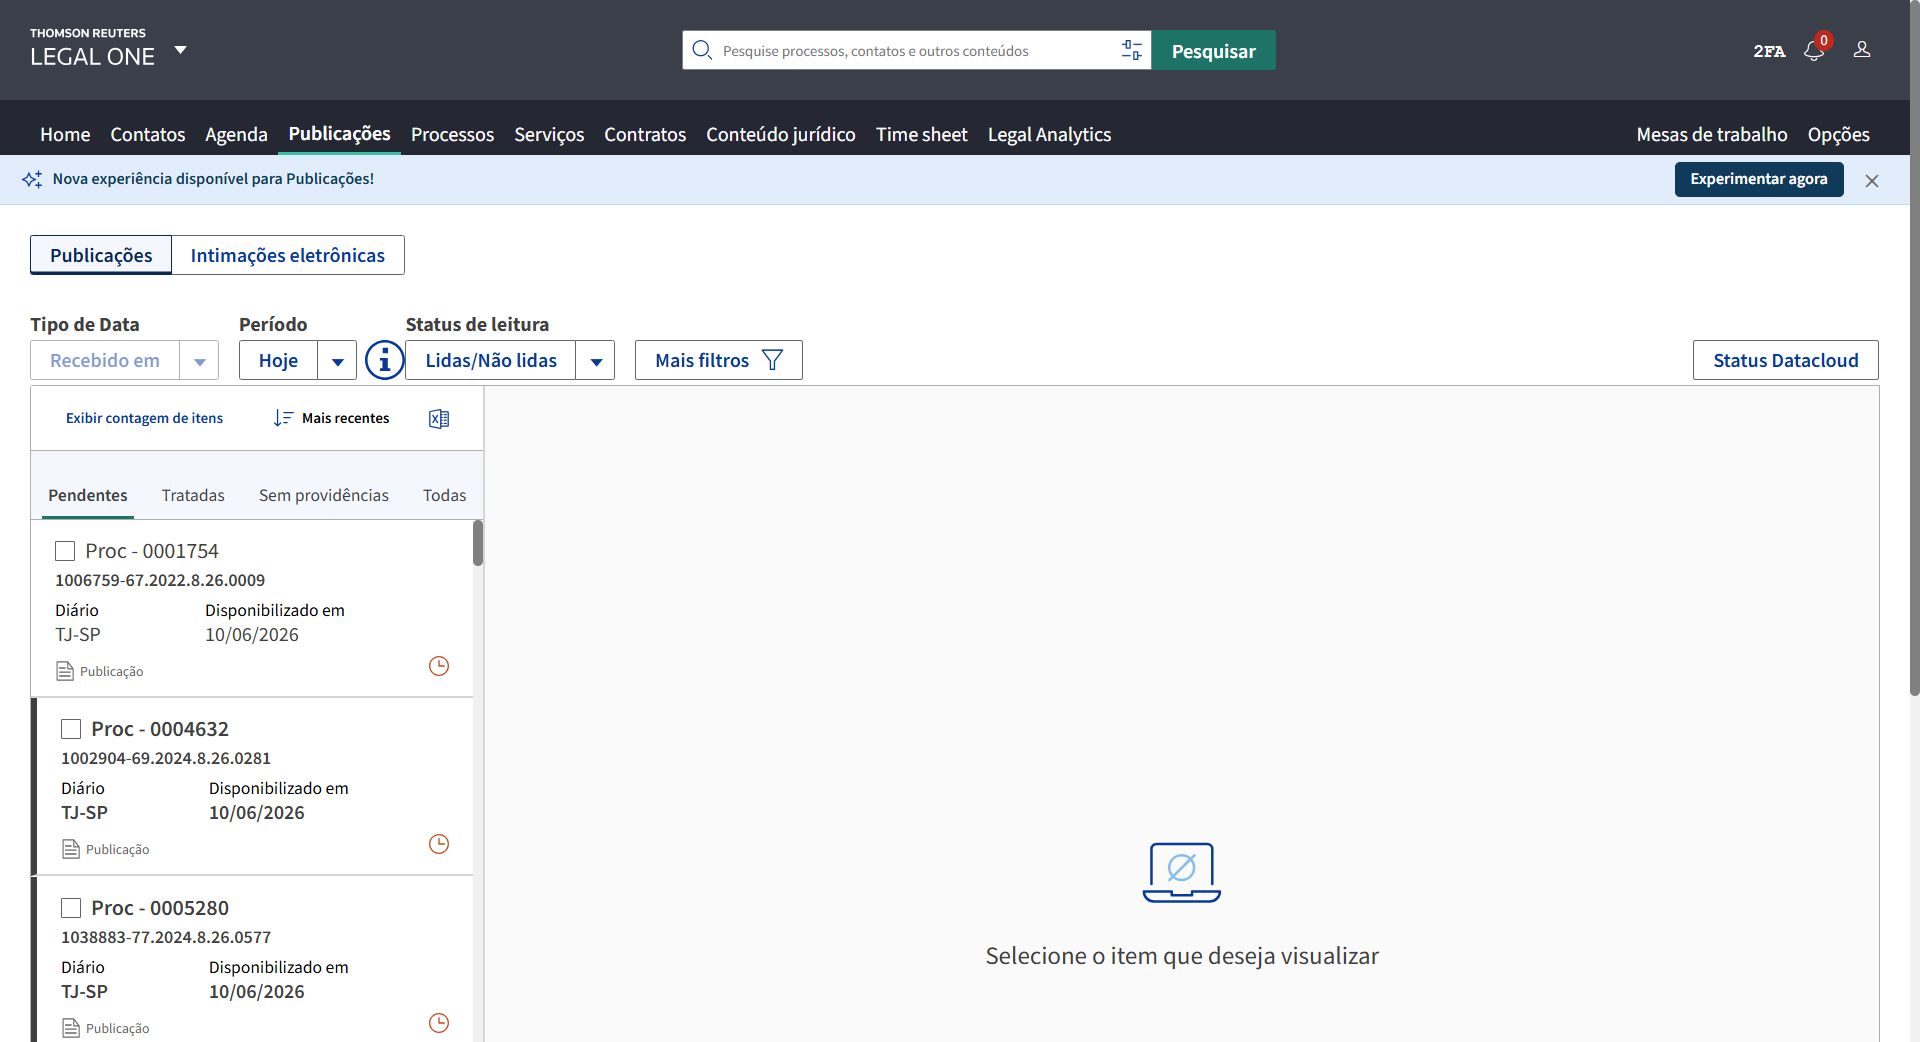
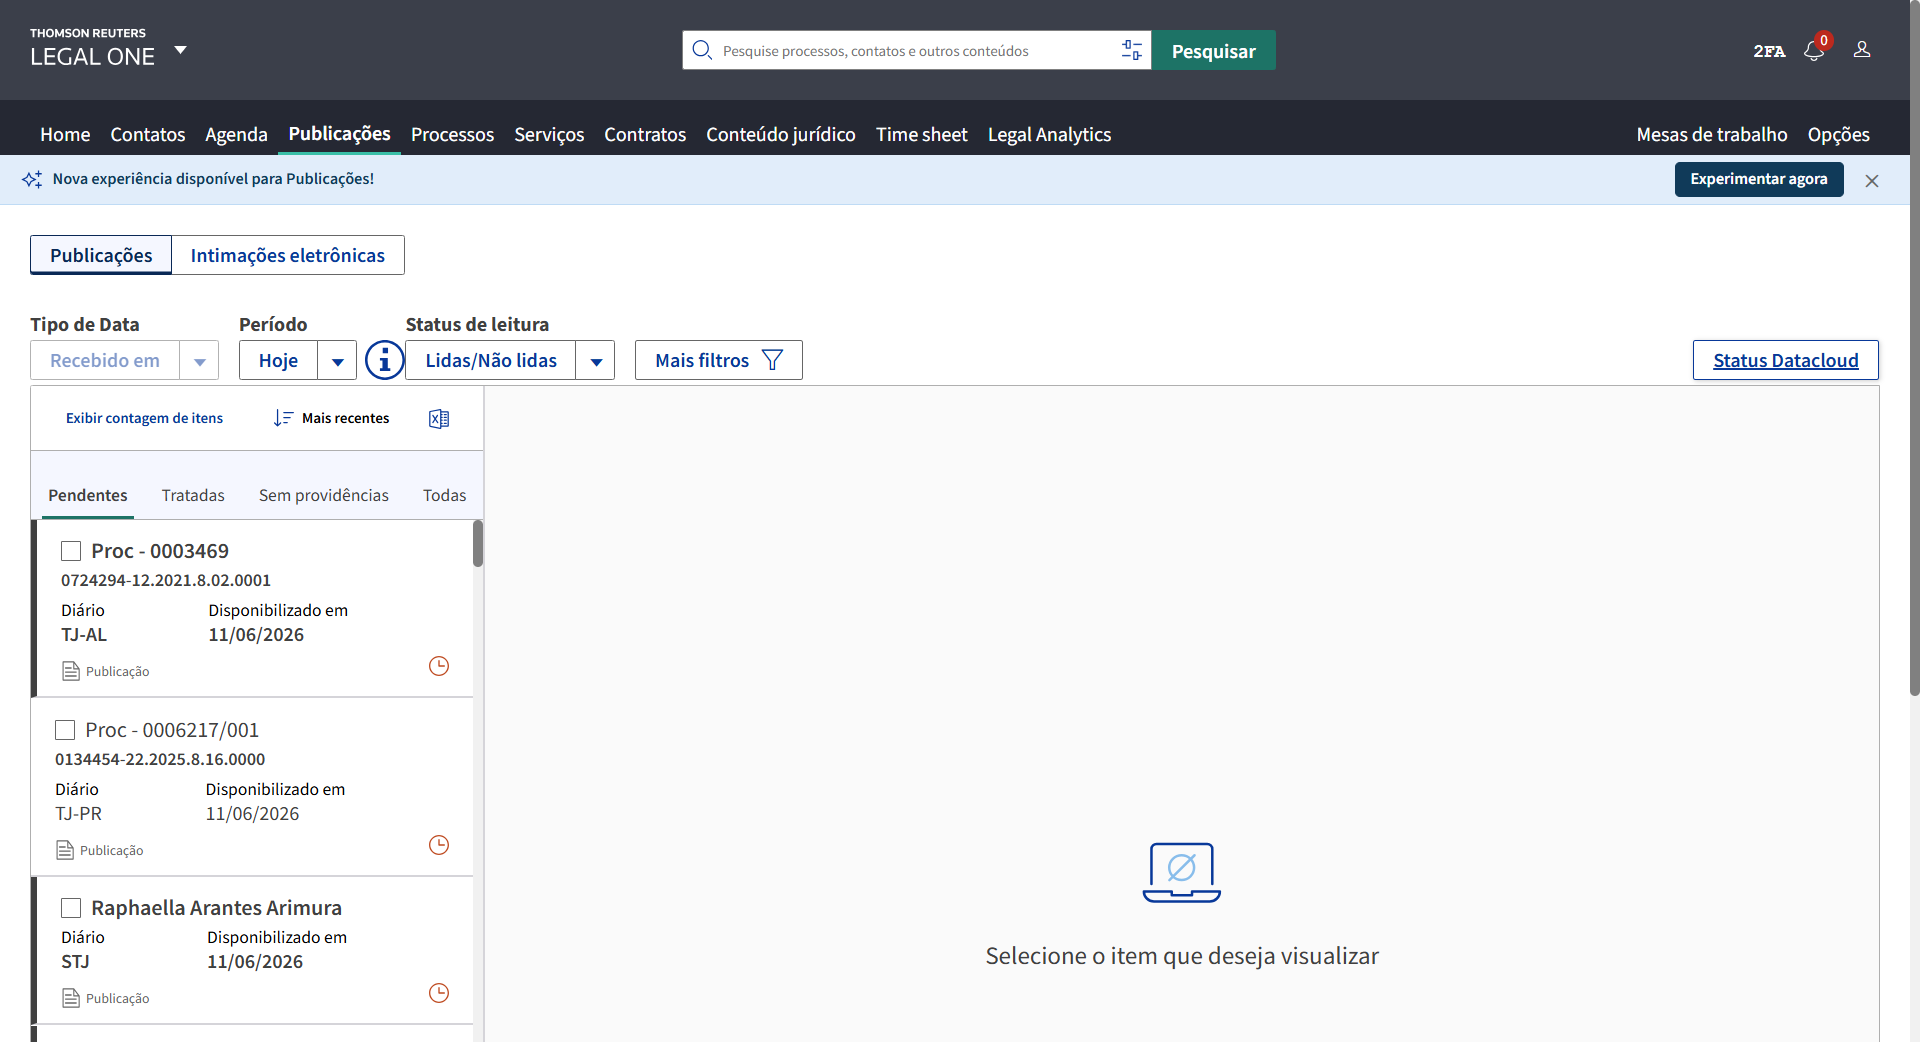
Fix: Update scheduling and scraping timestamps in relevant JSON data and minor code formatting adjustments

diff --git a/adapters/web/acoes.py b/adapters/web/acoes.py
@@ -1,10 +1,9 @@
-import time
 import logging
-import uuid
+import time
 
 from selenium.webdriver.common.by import By
-from selenium.webdriver.support.ui import WebDriverWait
 from selenium.webdriver.support import expected_conditions as EC
+from selenium.webdriver.support.ui import WebDriverWait
 
 from adapters.infra.logging_utils import salvar_screenshot
 
@@ -204,10 +203,10 @@ def obter_classificacao_ia(dados: dict, opcoes: list, adapta_info: dict | None) 
             "[ACAO] Enviando lista de descricoes ao expert do Adapta ONE para classificacao..."
         )
 
-        escolha_raw = client._enviar_prompt(prompt).strip()
+        escolha_raw = client.enviar_mensagem(prompt).strip()
         logging.info(f"[ACAO] Expert Adapta ONE respondeu: '{escolha_raw[:200]}...'")
 
-        linas = [l.strip() for l in escolha_raw.splitlines() if l.strip()]
+        linhas = [l.strip() for l in escolha_raw.splitlines() if l.strip()]
 
         for linha in reversed(linhas):
             if linha in opcoes:
@@ -446,130 +445,115 @@ def clicar_link_processo(driver, dados: dict = None, adapta_info: dict = None) -
                 f"[ACAO] Coletadas {len(opcoes)} opcoes de descricao para classificacao."
             )
 
-            escolha = "N/A"
-            if dados and opcoes:
-                escolha = obter_classificacao_ia(dados, opcoes, adapta_info)
+        escolha = "N/A"
+        if dados and opcoes:
+            escolha = obter_classificacao_ia(dados, opcoes, adapta_info)
 
-            logging.info(f"[ACAO] Descricao selecionada pela IA: '{escolha}'")
+        logging.info(f"[ACAO] Escolha de descricao: '{escolha}'")
 
-            if escolha and escolha != "N/A" and escolha in opcoes:
-                try:
-
-                    def _tentar_clicar_linhas(linhas):
-                        for row in linhas:
-                            try:
-                                td = row.find_element(
-                                    By.XPATH, ".//td[@data-val-field='Value']"
-                                )
-                                texto_td = td.text.strip()
-                                if texto_td.lower() == escolha.lower():
-                                    driver.execute_script(
-                                        "arguments[0].scrollIntoView({block:'center'});",
-                                        row,
-                                    )
-                                    time.sleep(0.4)
-                                    try:
-                                        row.click()
-                                    except Exception:
-                                        driver.execute_script(
-                                            "arguments[0].click();", row
-                                        )
-                                    logging.info(
-                                        f"[ACAO] Opcao selecionada e clicada no lookup: '{escolha}'"
-                                    )
-                                    return True
-                            except Exception:
-                                continue
-                        for row in linhas:
-                            try:
-                                td = row.find_element(
-                                    By.XPATH, ".//td[@data-val-field='Value']"
-                                )
-                                texto_td = td.text.strip()
-                                if (
-                                        escolha.lower() in texto_td.lower()
-                                        or texto_td.lower() in escolha.lower()
-                                ):
-                                    driver.execute_script(
-                                        "arguments[0].scrollIntoView({block:'center'});",
-                                        row,
-                                    )
-                                    time.sleep(0.4)
-                                    try:
-                                        row.click()
-                                    except Exception:
-                                        driver.execute_script(
-                                            "arguments[0].click();", row
-                                        )
-                                    logging.info(
-                                        f"[ACAO] Opcao parcial clicada no lookup: '{texto_td}'"
-                                    )
-                                    return True
-                            except Exception:
-                                continue
-                        return False
-
-                    from selenium.webdriver.common.keys import Keys
-
-                    try:
-                        driver.find_element(By.TAG_NAME, "body").send_keys(Keys.ESCAPE)
-                        time.sleep(1.0)
-                    except Exception:
-                        pass
-
-                    xpath_lookup_btn2 = "//div[contains(@class, 'lookup') and .//input[@id='Descricao']]//div[contains(@class, 'lookup-modal-button')]"
-                    btn_lookup2 = WebDriverWait(driver, 10).until(
-                        EC.element_to_be_clickable((By.XPATH, xpath_lookup_btn2))
-                    )
-                    try:
-                        btn_lookup2.click()
-                    except Exception:
-                        driver.execute_script("arguments[0].click();", btn_lookup2)
-                    logging.info("[ACAO] Lookup reaberto. Aguardando dropdown...")
-                    time.sleep(2.5)
-
-                    xpath_dropdown2 = (
-                        "//div[contains(@id, 'lookup_') and contains(@id, '_dropdown')]"
-                    )
-                    dropdown2 = WebDriverWait(driver, 10).until(
-                        EC.presence_of_element_located((By.XPATH, xpath_dropdown2))
-                    )
-
-                    clicou_opcao = False
-                    for pagina in range(6):
-                        time.sleep(1.0)
-                        linhas_pg = dropdown2.find_elements(
-                            By.XPATH,
-                            ".//div[@class='lookup-wrapper']//tr[@data-val-id]",
-                        )
-                        clicou_opcao = _tentar_clicar_linhas(linhas_pg)
-                        if clicou_opcao:
-                            break
-                        try:
-                            btn_next2 = dropdown2.find_element(
-                                By.XPATH, ".//a[contains(@class, 'paginator-next')]"
-                            )
-                            if not btn_next2.is_displayed():
-                                logging.info(
-                                    f"[ACAO] Fim da paginacao na pagina {pagina + 1}."
-                                )
-                                break
-                            driver.execute_script("arguments[0].click();", btn_next2)
-                        except Exception:
-                            break
-
-                    if not clicou_opcao:
-                        logging.warning(
-                            f"[ACAO] Opcao '{escolha}' nao encontrada em nenhuma pagina do lookup."
-                        )
-                except Exception as e:
-                    logging.error(
-                        f"[ACAO] Erro ao navegar/clicar na descricao no lookup: {e}"
-                    )
-            else:
-                logging.warning(
-                    "[ACAO] Nenhuma opcao valida foi classificada pela IA. O campo ficara em branco para preenchimento manual."
+        if escolha and escolha != "N/A":
+            try:
+                driver.execute_script(
+                    "arguments[0].querySelector('.pagination-first a, .paginator-first a').click();",
+                    dropdown,
                 )
+            except Exception:
+                pass
+            time.sleep(0.5)
+
+            clicou = False
+            for pagina in range(6):
+                rows = dropdown.find_elements(
+                    By.XPATH, ".//div[@class='lookup-wrapper']//tr[@data-val-id]"
+                )
+                for row in rows:
+                    try:
+                        td = row.find_element(
+                            By.XPATH, ".//td[@data-val-field='Value']"
+                        )
+                        texto = td.text.strip()
+                        if texto.lower() == escolha.lower():
+                            driver.execute_script(
+                                "arguments[0].scrollIntoView({block:'center'});", row
+                            )
+                            time.sleep(0.3)
+                            try:
+                                row.click()
+                            except Exception:
+                                driver.execute_script("arguments[0].click();", row)
+                            logging.info(f"[ACAO] Escolha de descricao: '{escolha}'")
+                            clicou = True
+                            break
+                    except Exception:
+                        continue
+                if clicou:
+                    break
+                try:
+                    btn_next = dropdown.find_element(
+                        By.XPATH, ".//a[contains(@class, 'paginator-next')]"
+                    )
+                    if not btn_next.is_displayed():
+                        break
+                    driver.execute_script("arguments[0].click();", btn_next)
+                    time.sleep(1.0)
+                except Exception:
+                    break
+            if not clicou:
+                for pagina in range(6):
+                    rows = dropdown.find_elements(
+                        By.XPATH, ".//div[@class='lookup-wrapper']//tr[@data-val-id]"
+                    )
+                    for row in rows:
+                        try:
+                            td = row.find_element(
+                                By.XPATH, ".//td[@data-val-field='Value']"
+                            )
+                            texto = td.text.strip()
+                            if (
+                                    escolha.lower() in texto.lower()
+                                    or texto.lower() in escolha.lower()
+                            ):
+                                driver.execute_script(
+                                    "arguments[0].scrollIntoView({block:'center'});", row
+                                )
+                                time.sleep(0.3)
+                                try:
+                                    row.click()
+                                except Exception:
+                                    driver.execute_script("arguments[0].click();", row)
+                                logging.info(f"[ACAO] Escolha de descricao: '{escolha}'")
+                                clicou = True
+                                break
+                        except Exception:
+                            continue
+                    if clicou:
+                        break
+                    try:
+                        btn_next = dropdown.find_element(
+                            By.XPATH, ".//a[contains(@class, 'paginator-next')]"
+                        )
+                        if not btn_next.is_displayed():
+                            break
+                        driver.execute_script("arguments[0].click();", btn_next)
+                        time.sleep(1.0)
+                    except Exception:
+                        break
+            time.sleep(2)
+            try:
+                input_desc = driver.find_element(By.ID, "Descricao")
+                valor = input_desc.get_attribute("value") or ""
+                if escolha.lower() in valor.lower():
+                    logging.info(f"[ACAO] Escolha de descricao: '{escolha}'")
+                else:
+                    logging.warning(
+                        f"[ACAO] Escolha de descricao nao encontrada: '{escolha}' (valor: '{valor}')"
+                    )
+            except Exception:
+                logging.warning(
+                    "[ACAO] Nao foi possivel verificar se a descricao foi selecionada."
+                )
+        else:
+            logging.info("[ACAO] Nao foi possivel classificar a descricao.")
 
     except Exception as e:
         logging.error(f"[ACAO] Falha ao navegar na aba do processo: {e}")

diff --git a/config/di.py b/config/di.py
@@ -149,9 +149,9 @@ def verificar_cliente_planilha(polo_a: str, numero_processo: str = None) -> dict
                 }
 
             if (
-                cliente_norm
-                and polo_a_norm
-                and (polo_a_norm in cliente_norm or cliente_norm in polo_a_norm)
+                    cliente_norm
+                    and polo_a_norm
+                    and (polo_a_norm in cliente_norm or cliente_norm in polo_a_norm)
             ):
                 return {
                     "e_nosso": True,
@@ -183,6 +183,7 @@ class Container:
     @property
     def navegador(self) -> SeleniumNavegador:
         if self._navegador is None:
+            _ = self.cliente_ia
             self._navegador = SeleniumNavegador(
                 usar_undetected=True,
                 cliente_ia=self._cliente_ia,